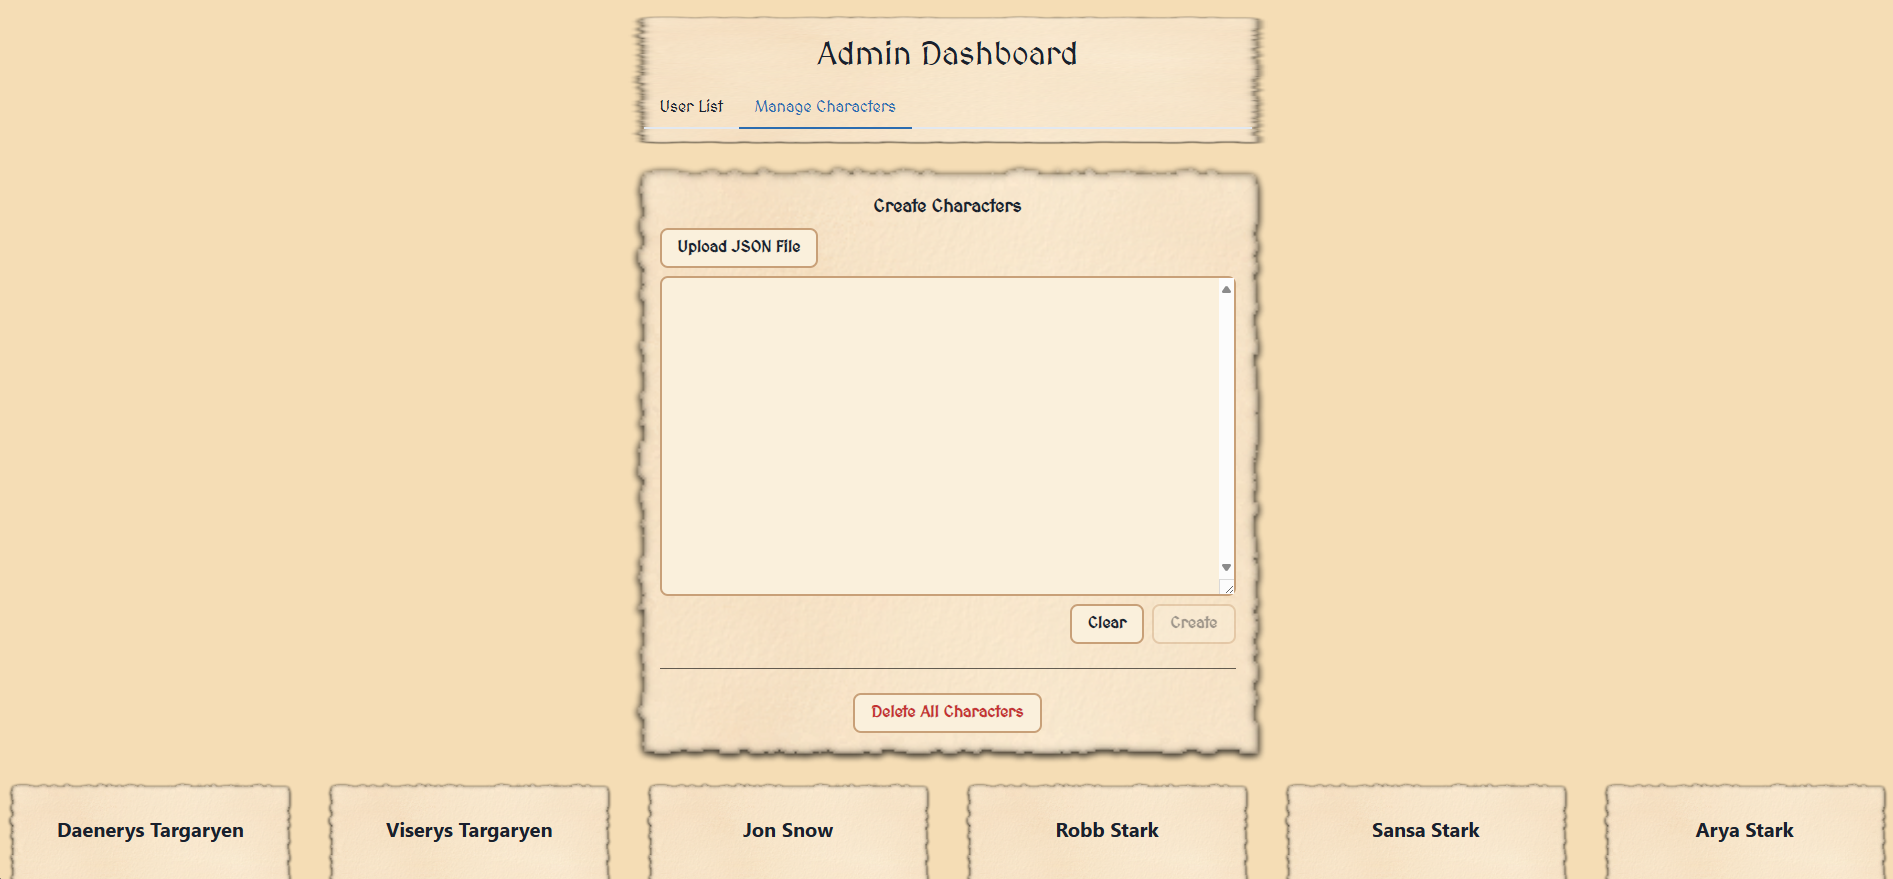
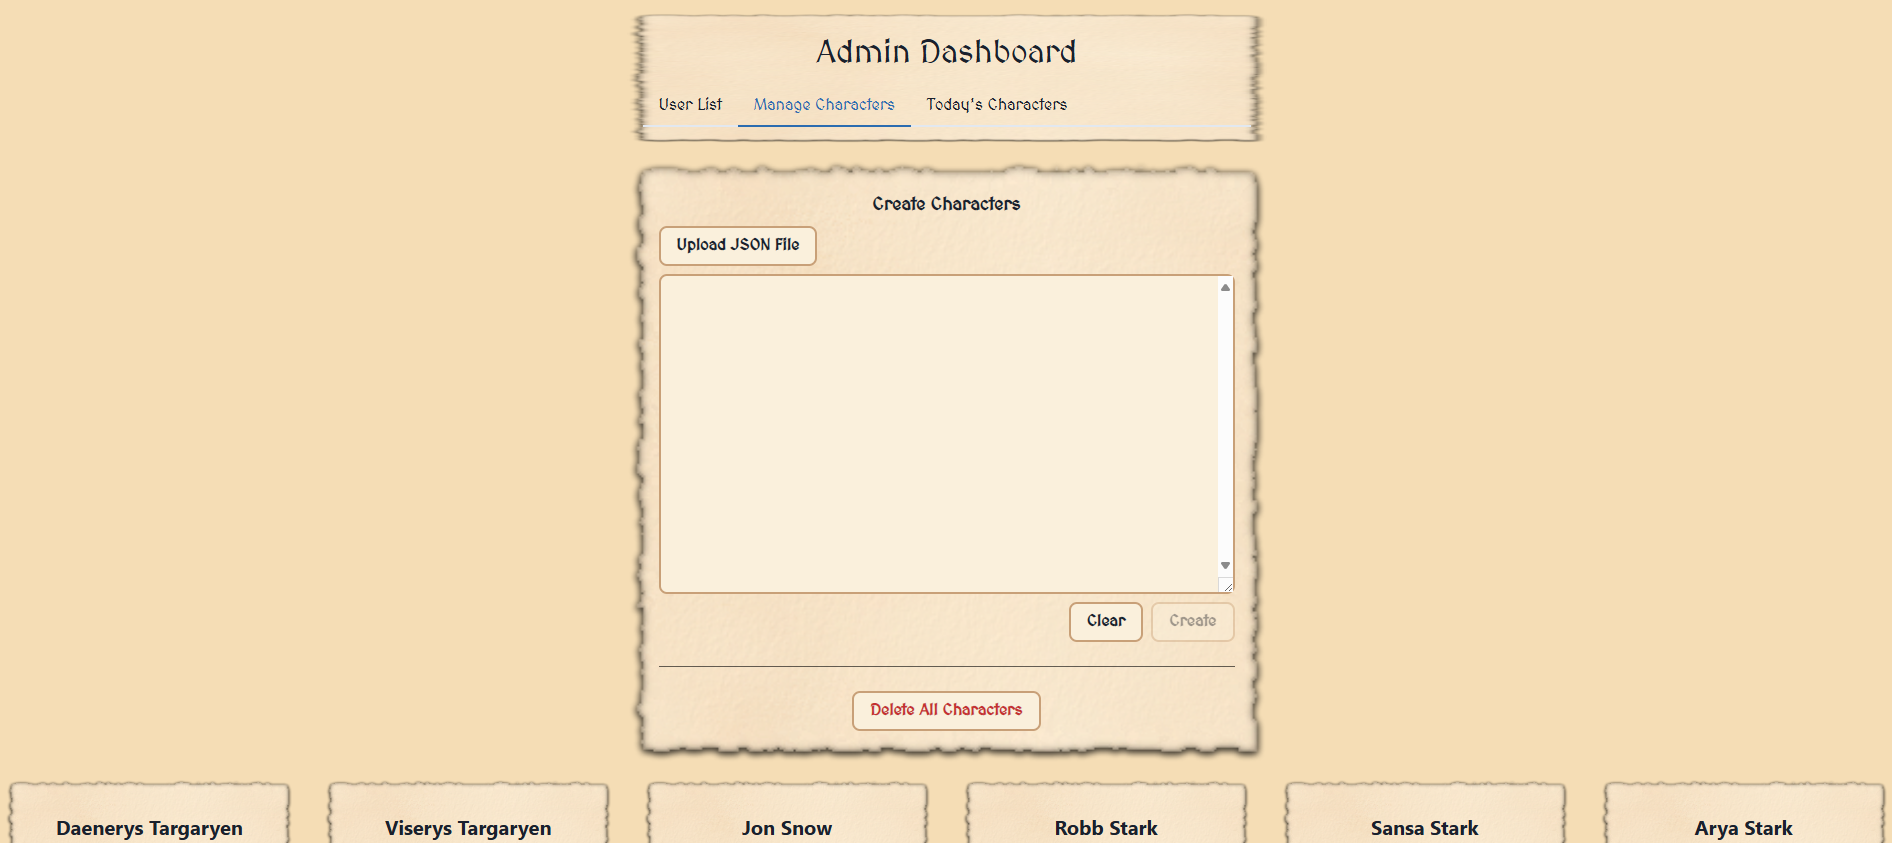
docs: update readMe, extend dashboard text with new tab

diff --git a/README.md b/README.md
@@ -264,11 +264,12 @@ Open a browser and navigate to `http://localhost:4173/` or click the link in the
 
 ![Admin Dashboard_User](frontend/src/assets/adminDashboard-userList.png)
 ![Admin Dashboard_Character](frontend/src/assets/adminDashboard-manageCharacter.png)
+![Admin Dashboard_todaysChar](frontend/src/assets/adminDashboard-todaysCharacter.png)
 ![Admin Dashboard_User](frontend/src/assets/adminLine-Menu.png)
 
 - [ ] **Displayed when the user clicks the admin dashboard button. This button is visible only to users with admin
   rights:**
-- On the dashboard page, the user can navigate between two tabs: User List and Manage Characters.
+- On the dashboard page, the user can navigate between three tabs: User List, Manage Characters and Today's Character.
 - **User List:**
     - Shows a table of all users.
     - The user can grant or revoke admin rights to another user by simply clicking the ✔ or ❌ icons.
@@ -284,6 +285,9 @@ Open a browser and navigate to `http://localhost:4173/` or click the link in the
       character's information.
 
 ![Admin Dashboard_CharacterCard](frontend/src/assets/characterCard-detailed.png)
+
+- **Today's Character:**
+    - The user can see the characters of the day for each mode.
 
 ## Login
 
